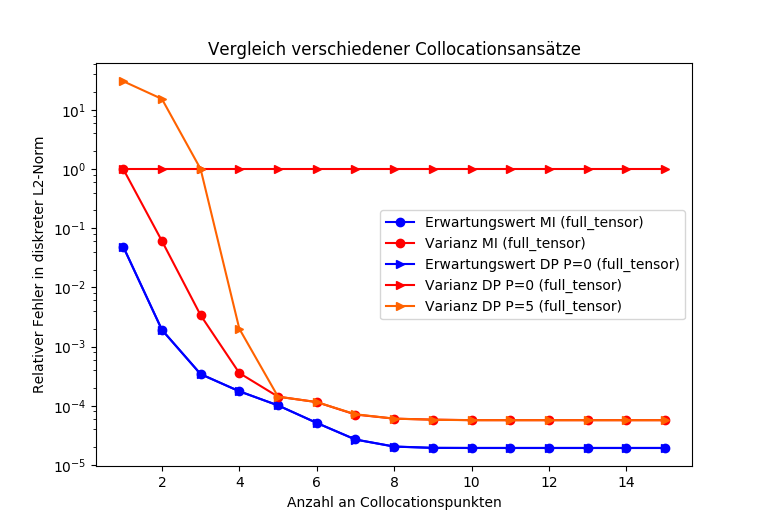
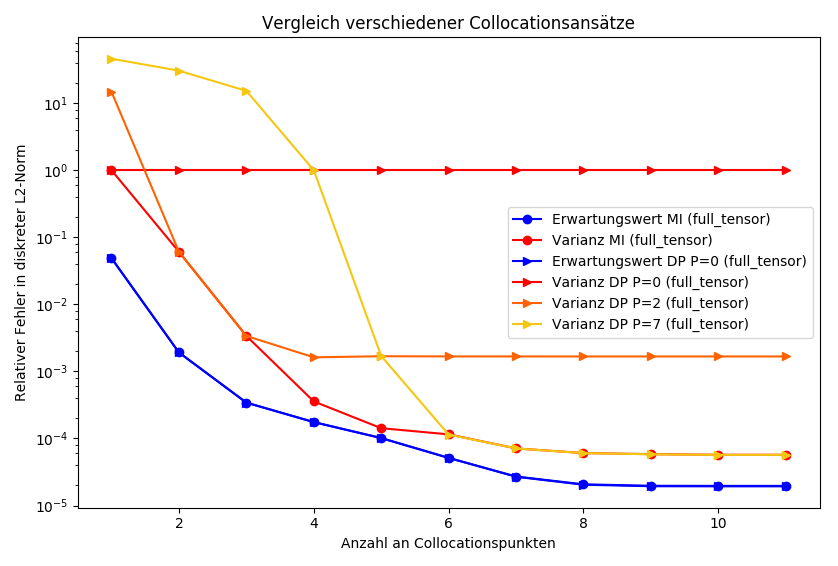
Added discont triple. Explained and included discontinous examples and images for comparing collocation methods.

diff --git a/demo/collocation_comparison.py b/demo/collocation_comparison.py
@@ -6,23 +6,24 @@ from polynomial_chaos.poly_chaos_distributions import get_chaos_name_by_distribu
 from util.quadrature.helpers import multi_index_bounded_sum_length
 from stochastic_equations.collocation.interpolation import matrix_inversion_expectancy
 import util.quadrature.nesting as nst
+from util.quadrature.closed_fully_nested import ClosedFullNesting
 import matplotlib.pyplot as plt
 from util.analysis import error_l2_relative
 from stochastic_equations.collocation.discrete_projection import discrete_projection
 
 
-trial = st.trial_8  # the trial to use
+trial = st.trial_1  # the trial to use
 
 # for 4 dimensions: max(N)=10 (x system) fits together with max_level=4 (625 nodes for full_tensor)
 # for 1 dimension: chooses discrete projection parameter automatically the same to those of matrix inversion
-N = list(range(10))  # for mi maximum degree of the univariate polynomial
+N = list(range(35))  # for mi maximum degree of the univariate polynomial
 
 # for full_tensor(s)
 M = [(int(np.ceil(multi_index_bounded_sum_length(len(trial.variable_distributions), n)
                   ** (1 / len(trial.variable_distributions)))),) * len(trial.variable_distributions)
      for n in N]
 
-P = [0, 4]   # for dp
+P = [0, 2, 7]   # for dp
 max_level = 4  # for dp
 
 chaos_names = [get_chaos_name_by_distribution(distr) for distr in trial.variable_distributions]
@@ -38,8 +39,7 @@ grid_size = trial.get_parameter("grid_size", 128)
 spatial_domain = tuple(repeat(tuple([-np.pi, np.pi]), spatial_dimension))
 start_time = 0
 stop_time = trial.get_parameter("stop_time", 0.5)
-# if grid_size is bigger this needs to be smaller, especially for higher poly degrees
-delta_time = trial.get_parameter("delta_time", 0.0005)
+delta_time = trial.get_parameter("delta_time", 0.001)
 
 
 # methods to use for matrix inversion
@@ -96,9 +96,12 @@ for method, marker in zip(methods_mi, method_markers_mi):
 nesting = nst.get_nesting_for_multiple_names(chaos_names)
 wanted_levels = list(range(max_level + 1))
 wanted_quad_points = [nesting.calculate_point_num(random_dim, level) for level in wanted_levels]
+nesting = ClosedFullNesting()
+L_gc = [nesting.get_minimum_level_with_point_num(random_dim, count) for count in wanted_quad_points]
 if random_dim > 1:
     quadrature_methods_dp = {"full_tensor": list(map(minimum_full_tensor_param_for_count, wanted_quad_points[:-1]))
                              , "sparse": wanted_levels}
+                             #, "sparse_gc": L_gc}
 else:
     quadrature_methods_dp = {"full_tensor": M}
 
@@ -108,7 +111,7 @@ variance_colors = ["#FF0000", "#FF6200", "#F5C711", "#54C41B", "#00FF00", "#0000
 if len(P) > len(variance_colors):
     raise ValueError("Too many values for P... reduce or add more colors.")
 
-for (method, method_params), marker in zip(quadrature_methods_dp.items(), ["->", "-x"]):
+for (method, method_params), marker in zip(quadrature_methods_dp.items(), ["->", "-x", "-<", "-."]):
     print("Starting dp method", method, "with params", method_params)
     exp_var_results_dp = dict()
     quad_points_dp = dict()

diff --git a/demo/stochastic_trials.py b/demo/stochastic_trials.py
@@ -171,6 +171,40 @@ trial_discont_simple = StochasticTrial([distributions.make_uniform(-1, 1)],
                     "expectancy_data", "../data/qmc_exp, 100000, TrialDiscontSimple, 0.5, 128.npy",
                     "variance_data", "../data/qmc_var, 100000, TrialDiscontSimple, 0.5, 128.npy")
 
+trial_discont_simple_gauss = StochasticTrial([distributions.gaussian],
+                                       lambda xs, ys: np.cos(sum(xs)),
+                                       lambda xs, ys: np.sin(sum([x ** 2 for x in xs])),
+                                       name="TrialDiscontSimpleGauss") \
+    .add_parameters("beta", lambda xs, ys: 2 + np.sin(xs[0] + ys[0]) if ys[0] > 0. else 2 + np.cos(xs[0] + ys[0]),
+                    "alpha", lambda ys: 2. if ys[0] > 0. else 1.)
+
+trial_discont_super_simple = StochasticTrial([distributions.make_uniform(-1, 1)],
+                                       lambda xs, ys: np.cos(sum(xs)),
+                                       lambda xs, ys: np.sin(sum([x ** 2 for x in xs])),
+                                       name="TrialDiscontSuperSimple") \
+    .add_parameters("beta", lambda xs, ys: 2 + np.sin(xs[0] + ys[0]),
+                    "alpha", lambda ys: 2. if ys[0] > 0. else 1.,
+                    "expectancy_data", "../data/qmc_exp, 100000, TrialDiscontSuperSimple, 0.5, 128.npy",
+                    "variance_data", "../data/qmc_var, 100000, TrialDiscontSuperSimple, 0.5, 128.npy")
+
+trial_discont_super_extreme_simple = StochasticTrial([distributions.make_uniform(-1, 1)],
+                                       lambda xs, ys: np.cos(sum(xs)),
+                                       lambda xs, ys: np.sin(sum([x ** 2 for x in xs])),
+                                       name="TrialDiscontSuperExtremeSimple") \
+    .add_parameters("beta", lambda xs, ys: 2 + np.sin(xs[0]),
+                    "alpha", lambda ys: 2. if ys[0] > 0. else 1.,
+                    "expectancy_data", "../data/qmc_exp, 100000, TrialDiscontSuperExtremeSimple, 0.5, 128.npy",
+                    "variance_data", "../data/qmc_var, 100000, TrialDiscontSuperExtremeSimple, 0.5, 128.npy")
+
+trial_discont_triple = StochasticTrial([distributions.make_uniform(-1, 1)],
+                                       lambda xs, ys: np.cos(sum(xs)),
+                                       lambda xs, ys: np.sin(sum([x ** 2 for x in xs])),
+                                       name="TrialDiscontTriple") \
+    .add_parameters("beta", lambda xs, ys: 2 + np.sin(xs[0] + ys[0]),
+                    "alpha", lambda ys: 3. if ys[0] > 0.5 else (2. if ys[0] > 0. else 1.),
+                    "expectancy_data", "../data/qmc_exp, 100000, TrialDiscontTriple, 0.5, 128.npy",
+                    "variance_data", "../data/qmc_var, 100000, TrialDiscontTriple, 0.5, 128.npy")
+
 
 def reg_alpha(ys):
     # result must be smaller than 1/4 and bigger than 0

diff --git a/demo/monte_carlo.py b/demo/monte_carlo.py
@@ -23,7 +23,7 @@ do_quasi_monte_carlo = True
 # the factor of the step number between two consecutive solutions used to estimate order of convergence
 order_factor = 10  # >=2, integer
 
-trial = st.trial_8
+trial = st.trial_discont_simple_gauss
 
 splitting_xs, splitting_xs_mesh, expectancy, variance, expectancy_errors, variance_errors, \
     solutions, solutions_for_order_estimate = \
